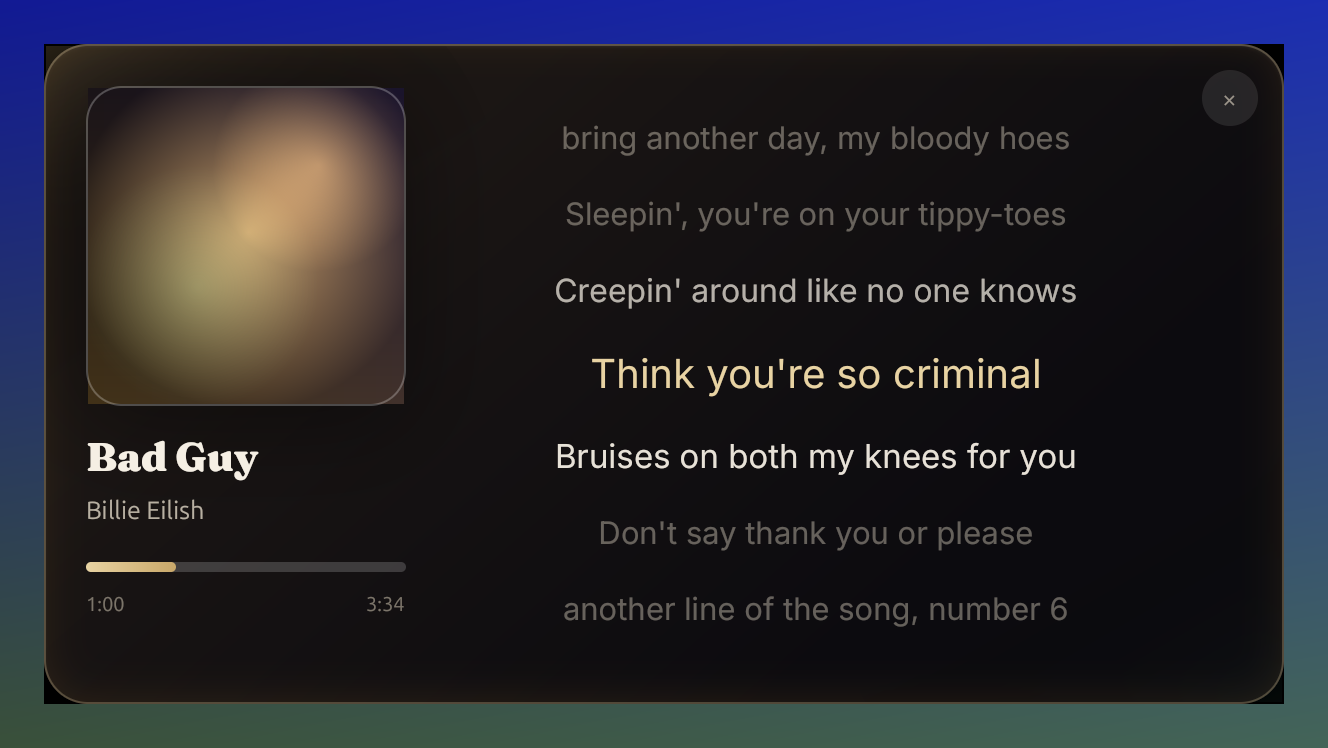
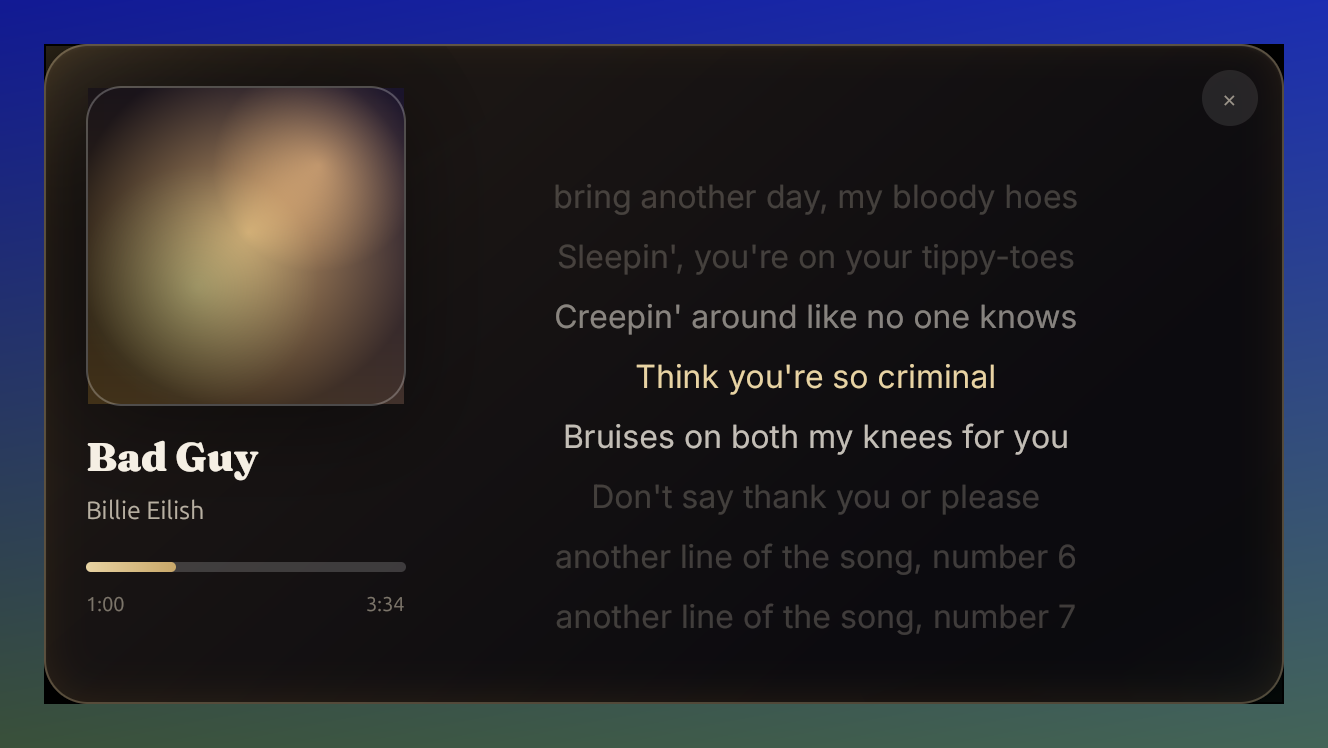
feat(overlay): scroll the lyric band like the desktop media widget
The overlay swapped a fixed seven-line slice for a new one whenever the active
line changed: no continuity, a hard cut, and the ±3 lines had to be re-styled
every time. The media widget in `device-tweak/Widget` does it differently, and
better: it lays every line out once inside a clipping box and animates the
whole column so the active line stays vertically centred.

Following that:

- Every line is rendered into one column, positioned by arithmetic
  (`centre - (index + 0.5) * row`) inside an `overflow_hidden` box, so lines
  above and below are clipped by the edges exactly as in the reference.
- The column glides to the new position with `AnimationExt` over 380 ms and
  `ease_out_quint` (the reference uses 380 ms / ease-out-cubic). A new glide
  starts only when the active line, the line count or the viewport height
  changes, so an idle overlay schedules no frames at all.
- Reduced motion needs no special case: `AnimationExt` paints the end state and
  skips the animation frames when `App::reduce_motion` is set.
- Rows are a uniform 30 px high with a single type size (16 px). Emphasis comes
  from brightness — active in gold semibold at 1.0, then 0.78 / 0.52 / 0.30 —
  rather than from changing sizes, which keeps the rhythm steady while the band
  moves and makes the position arithmetic instead of a measurement pass.
- Resizing re-targets the glide (the viewport height is part of the animation
  key), mirroring the reference's reflow.
[…]

diff --git a/src/overlay/mod.rs b/src/overlay/mod.rs
@@ -14,7 +14,10 @@
 #![allow(clippy::items_after_test_module)]
 
 use crate::theme::midnight_brass;
-use gpui::{Context, Render, Window, WindowBackgroundAppearance, WindowOptions, div, prelude::*};
+use gpui::{
+    AnimationExt as _, Context, Render, Window, WindowBackgroundAppearance, WindowOptions, div,
+    prelude::*,
+};
 
 pub const DEFAULT_WIDTH: u32 = 620;
 pub const DEFAULT_HEIGHT: u32 = 330;
@@ -28,6 +31,12 @@ pub const BAND_BEFORE: usize = 3;
 pub const BAND_AFTER: usize = 3;
 /// Width of the left column (artwork, title, artist, progress).
 const LEFT_COLUMN: f32 = 160.0;
+/// Every lyric row is the same height, so the band can be positioned by
+/// arithmetic instead of measuring laid-out text. Uniform rows also match the
+/// reference widget, where emphasis comes from brightness, not size.
+const ROW_HEIGHT: f32 = 30.0;
+/// How long the band takes to glide to the next line (the reference uses 380 ms).
+const SCROLL_MS: u64 = 380;
 
 #[derive(Debug, Clone, Copy, PartialEq, Eq)]
 pub struct OverlayGeometry {
@@ -290,6 +299,44 @@ impl OverlayState {
         self.visible_rows().first().map(|row| row.text.clone())
     }
 
+    /// Every line, with its tier. The window glides through all of them, so the
+    /// reader keeps the whole song for context instead of a moving slice.
+    pub fn all_rows(&self) -> Vec<VisibleRow> {
+        match &self.lyrics {
+            OverlayLyrics::Message => Vec::new(),
+            OverlayLyrics::Synced { lines, active } => lines
+                .iter()
+                .enumerate()
+                .map(|(i, line)| VisibleRow {
+                    text: line.text.clone(),
+                    tier: LineTier::of(i, *active),
+                })
+                .collect(),
+            OverlayLyrics::Plain { lines, index } => {
+                let active = (*index).min(lines.len().saturating_sub(1));
+                lines
+                    .iter()
+                    .enumerate()
+                    .map(|(i, text)| VisibleRow {
+                        text: text.clone(),
+                        tier: LineTier::of(i, Some(active)),
+                    })
+                    .collect()
+            }
+        }
+    }
+
+    /// The index of the line being sung, for the scroll position.
+    pub fn active_row(&self) -> Option<usize> {
+        match &self.lyrics {
+            OverlayLyrics::Synced { active, .. } => *active,
+            OverlayLyrics::Plain { index, lines } => {
+                Some((*index).min(lines.len().saturating_sub(1)))
+            }
+            OverlayLyrics::Message => None,
+        }
+    }
+
     /// The band of rows to draw: at most `BAND_BEFORE + 1 + BAND_AFTER` of them.
     pub fn visible_rows(&self) -> Vec<VisibleRow> {
         match &self.lyrics {
@@ -375,6 +422,12 @@ pub struct PinnedLyricsView {
     geometry: std::sync::Arc<std::sync::Mutex<OverlayGeometry>>,
     /// Focus handle for the overlay's close control.
     close_focus: gpui::FocusHandle,
+    /// Scroll animation: where the band currently is, where it is going, and the
+    /// `(active, len)` key that starts a new glide.
+    scroll_from: f32,
+    scroll_to: f32,
+    scroll_key: (usize, usize, usize),
+    scroll_started: bool,
 }
 
 impl PinnedLyricsView {
@@ -387,6 +440,10 @@ impl PinnedLyricsView {
             state,
             geometry,
             close_focus: cx.focus_handle().tab_stop(true).tab_index(0),
+            scroll_from: 0.0,
+            scroll_to: 0.0,
+            scroll_key: (0, 0, 0),
+            scroll_started: false,
         }
     }
 }
@@ -398,7 +455,7 @@ impl Render for PinnedLyricsView {
 
         // Read once, copy only what is drawn: the old code cloned every lyric
         // line about ten times a second just to draw six of them.
-        let (title, artist, cover, unsynced, message, rows, progress, elapsed, total) = {
+        let (title, artist, cover, unsynced, message, progress, elapsed, total) = {
             let state = self.state.read(cx);
             (
                 state.title.clone(),
@@ -406,7 +463,6 @@ impl Render for PinnedLyricsView {
                 state.cover.clone(),
                 state.unsynced,
                 state.message.clone(),
-                state.visible_rows(),
                 state.progress_fraction(),
                 fmt_time(state.position),
                 state
@@ -540,65 +596,129 @@ impl Render for PinnedLyricsView {
             .child(div().flex_1());
 
         // ---- right column: the lyric band ----
-        let mut lines = div()
-            .flex_1()
-            .h_full()
+        //
+        // Following the reference widget: every line is rendered once inside a
+        // clipping box and the whole column glides so that the line being sung
+        // stays vertically centred. Uniform row height means the target position
+        // is arithmetic — no measuring laid-out text, and no reflow pass.
+        let rows_all = self.state.read(cx).all_rows();
+        let active_row = self.state.read(cx).active_row();
+
+        let viewport_h = f32::from(window.bounds().size.height) - 40.0;
+        let center = viewport_h / 2.0;
+        let target = match active_row {
+            Some(index) if !rows_all.is_empty() => center - (index as f32 + 0.5) * ROW_HEIGHT,
+            _ => 0.0,
+        };
+
+        // A new glide starts when the active line or the song changes.
+        let key = (
+            active_row.unwrap_or(0),
+            rows_all.len(),
+            viewport_h.max(0.0) as usize,
+        );
+        if !self.scroll_started {
+            self.scroll_started = true;
+            self.scroll_from = target;
+            self.scroll_to = target;
+            self.scroll_key = key;
+        } else if key != self.scroll_key {
+            self.scroll_from = self.scroll_to;
+            self.scroll_to = target;
+            self.scroll_key = key;
+        }
+        let (glide_from, glide_to) = (self.scroll_from, self.scroll_to);
+
+        let mut column = div()
+            .absolute()
+            .left_0()
+            .right_0()
             .flex()
             .flex_col()
-            .justify_center()
-            .items_center()
-            .gap(gpui::px(17.0))
             .px(gpui::px(6.0))
             // Room for the close control, so it never sits on a lyric.
-            .pr(gpui::px(38.0))
-            .overflow_hidden();
+            .pr(gpui::px(38.0));
 
-        if rows.is_empty() {
-            lines = lines.child(
-                div()
-                    .flex()
-                    .flex_col()
-                    .items_center()
-                    .gap(gpui::px(4.0))
-                    .child(
-                        div()
-                            .text_size(gpui::px(14.0))
-                            .font_family(theme.ui_font)
-                            .text_color(t.text_secondary)
-                            .child(message),
-                    )
-                    .child(
-                        div()
-                            .text_size(gpui::px(10.5))
-                            .font_family(theme.ui_font)
-                            .text_color(t.text_tertiary)
-                            .child("Lyrics come from Navidrome and LRCLIB"),
-                    ),
-            );
-        } else {
-            for row in rows {
-                let (size, color, weight, opacity) = match row.tier {
-                    LineTier::Active => (20.0, t.gold_light, gpui::FontWeight::SEMIBOLD, 1.0),
-                    LineTier::Next => (16.5, t.text_primary, gpui::FontWeight::MEDIUM, 0.94),
-                    LineTier::Far => (16.0, t.text_primary, gpui::FontWeight::NORMAL, 0.72),
-                    LineTier::Dim => (15.5, t.text_secondary, gpui::FontWeight::NORMAL, 0.52),
-                };
-                lines = lines.child(
+        if rows_all.is_empty() {
+            // Nothing to scroll: sit the message in the middle of the box.
+            let message = message.clone();
+            let hint = "Lyrics come from Navidrome and LRCLIB";
+            column = column
+                .top(gpui::px(center - 26.0))
+                .items_center()
+                .justify_center()
+                .child(
                     div()
                         .w_full()
                         .text_center()
-                        .text_size(gpui::px(size))
-                        .line_height(gpui::px(size * 1.34))
+                        .text_size(gpui::px(14.0))
                         .font_family(theme.ui_font)
-                        .font_weight(weight)
-                        .text_color(color)
-                        .opacity(opacity)
-                        .child(row.text),
+                        .text_color(t.text_secondary)
+                        .child(message),
+                )
+                .child(
+                    div()
+                        .w_full()
+                        .text_center()
+                        .mt(gpui::px(4.0))
+                        .text_size(gpui::px(10.5))
+                        .font_family(theme.ui_font)
+                        .text_color(t.text_tertiary)
+                        .child(hint),
+                );
+        } else {
+            for row in rows_all {
+                // Uniform type size, like the reference: the emphasis is carried
+                // by colour and opacity, so the band keeps one steady rhythm
+                // while it moves.
+                let (color, weight, opacity) = match row.tier {
+                    LineTier::Active => (t.gold_light, gpui::FontWeight::SEMIBOLD, 1.0),
+                    LineTier::Next => (t.text_primary, gpui::FontWeight::MEDIUM, 0.78),
+                    LineTier::Far => (t.text_primary, gpui::FontWeight::NORMAL, 0.52),
+                    LineTier::Dim => (t.text_secondary, gpui::FontWeight::NORMAL, 0.30),
+                };
+                column = column.child(
+                    div()
+                        .w_full()
+                        .h(gpui::px(ROW_HEIGHT))
+                        .flex()
+                        .items_center()
+                        .justify_center()
+                        .child(
+                            div()
+                                .w_full()
+                                .text_center()
+                                .text_size(gpui::px(16.0))
+                                .line_height(gpui::px(21.0))
+                                .font_family(theme.ui_font)
+                                .font_weight(weight)
+                                .text_color(color)
+                                .opacity(opacity)
+                                .child(row.text),
+                        ),
                 );
             }
         }
 
-        let right = div().flex_1().h_full().child(lines);
+        // No motion when the user asked for none: jump straight to the target.
+        // `with_animation` already honours `App::reduce_motion`: when motion is
+        // reduced it paints the end state and schedules no frames.
+        let animation = gpui::Animation::new(std::time::Duration::from_millis(SCROLL_MS))
+            .with_easing(gpui::ease_out_quint());
+        let scrolling = div().relative().h_full().flex_1().overflow_hidden().child(
+            column
+                .with_animation(
+                    format!("lyric-scroll-{}-{}-{}", key.0, key.1, key.2),
+                    animation,
+                    move |column, t| {
+                        let y = glide_from + (glide_to - glide_from) * t;
+                        column.top(gpui::px(y))
+                    },
+                )
+                .into_any_element(),
+        );
+
+        let right = div().flex_1().h_full().child(scrolling);
 
         let ambient = div()
             .absolute()
@@ -879,6 +999,40 @@ mod band_tests {
             ]
         );
         assert_eq!(rows[3].text, "line 60");
+    }
+
+    #[test]
+    fn all_rows_keeps_the_whole_song_for_the_scrolling_window() {
+        // The band glides through every line (like the reference widget), so the
+        // full set is handed to the view while the tier still marks the singer.
+        let mut state = OverlayState::default();
+        state.set_status(&LyricsStatus::Synced(synced(70)));
+        state.sync_position(Duration::from_secs(300), 0, None);
+        let rows = state.all_rows();
+        assert_eq!(rows.len(), 70, "every line is available to scroll through");
+        assert_eq!(
+            rows.iter().filter(|r| r.tier.is_active()).count(),
+            1,
+            "exactly one line is the active one"
+        );
+        assert_eq!(state.active_row(), Some(60));
+        assert_eq!(rows[60].tier, LineTier::Active);
+        assert_eq!(rows[61].tier, LineTier::Next);
+        assert_eq!(rows[59].tier, LineTier::Far);
+        assert_eq!(rows[0].tier, LineTier::Dim);
+    }
+
+    #[test]
+    fn the_scrolling_window_has_no_active_row_without_lyrics() {
+        let mut state = OverlayState::default();
+        state.set_status(&LyricsStatus::NotFound);
+        assert!(state.all_rows().is_empty());
+        assert_eq!(state.active_row(), None);
+
+        // Plain transcripts still scroll with the song's progress.
+        state.set_status(&LyricsStatus::Plain("a\nb\nc".to_string()));
+        assert_eq!(state.all_rows().len(), 3);
+        assert_eq!(state.active_row(), Some(0));
     }
 
     #[test]

diff --git a/docs/design.md b/docs/design.md
@@ -140,10 +140,14 @@ The app window uses the glass shell: warm-black translucent background with nati
 - Borderless, transparent, native blur, draggable by its surface; size ~392 × 160–220 px depending on lyric wrapping; position/size persisted.
 - Content: **two columns**, 620 × 330 default (min 520 × 280). Left: artwork (160 px, rounded,
   hairline border), title in Fraunces, artist, and a real progress bar with elapsed/total time.
-  Right: **a seven-line lyric band** (three before the active line, three after) in four tiers —
-  active (gold, semibold, 20 px), next (17 px), far (16 px), dim (15.5 px) — because a 70-line
-  lyric sheet must never be squeezed into a small window. A close control sits in the top-right
-  corner. Unsynced transcripts follow progress through the track, never highlight a fake active
+  Right: **the lyric band scrolls**, following the media widget in `device-tweak/Widget`: every line
+  is laid out once in a clipping box and the whole column glides so the line being sung stays
+  vertically centred (380 ms, ease-out, `AnimationExt`, which honours reduced motion by painting the
+  end state and scheduling no frames). Rows are a uniform 30 px high with one type size (16 px), so
+  the position is arithmetic rather than measured, and emphasis is carried by brightness — active in
+  gold semibold at full opacity, then 0.78 / 0.52 / 0.30 — instead of by size, which keeps the
+  rhythm steady while the band moves. Resizing re-targets the glide. A close control sits in the
+  top-right corner. Unsynced transcripts follow progress through the track, never highlight a fake active
   line, and carry a small "UNSYNCED" chip. Loading/instrumental/not-found/error states show a
   message and a hint instead of an empty box.
 - Material: the window gets no backdrop blur from Mutter, so the panel carries its own surface — a

diff --git a/CHANGELOG.md b/CHANGELOG.md
@@ -21,6 +21,11 @@
   wallpaper), and the default window grew from 392x180 to 620x330 to hold the layout.
 - Overlay artwork reuses the cached cover, and the lyric state is read without cloning the whole
   lyric list on every frame.
+- The lyric band now scrolls instead of swapping a fixed slice: every line is laid out once and the
+  column glides (380 ms, ease-out) so the line being sung stays centred, with the surrounding lines
+  clipped at the edges — the behaviour of the media widget in `device-tweak/Widget`. Rows use one
+  uniform height and type size, so emphasis comes from brightness rather than from changing sizes,
+  and reduced motion is honoured automatically.
 
 ### Fixed
 - **The pinned lyric overlay is now readable.** It used to render *every* line of the song into a
